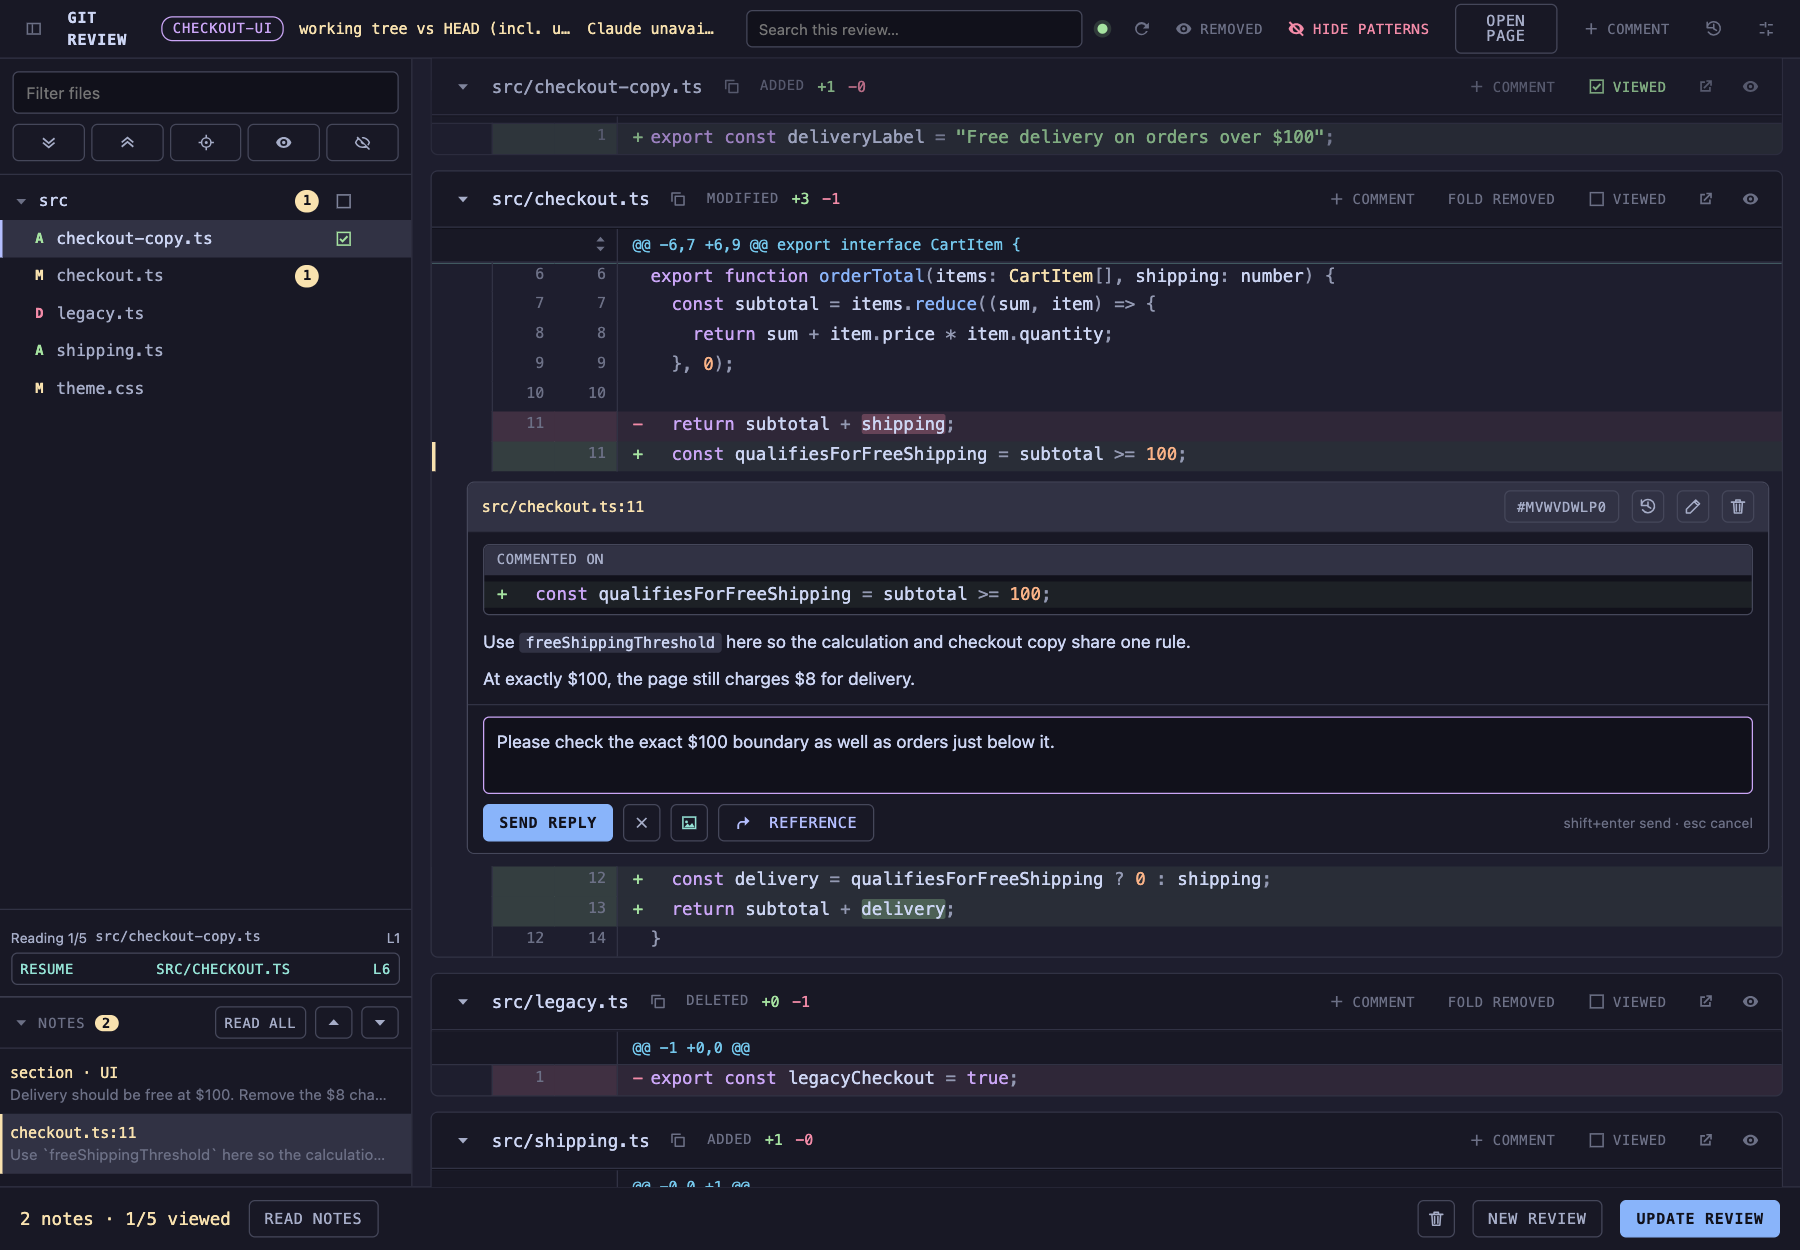
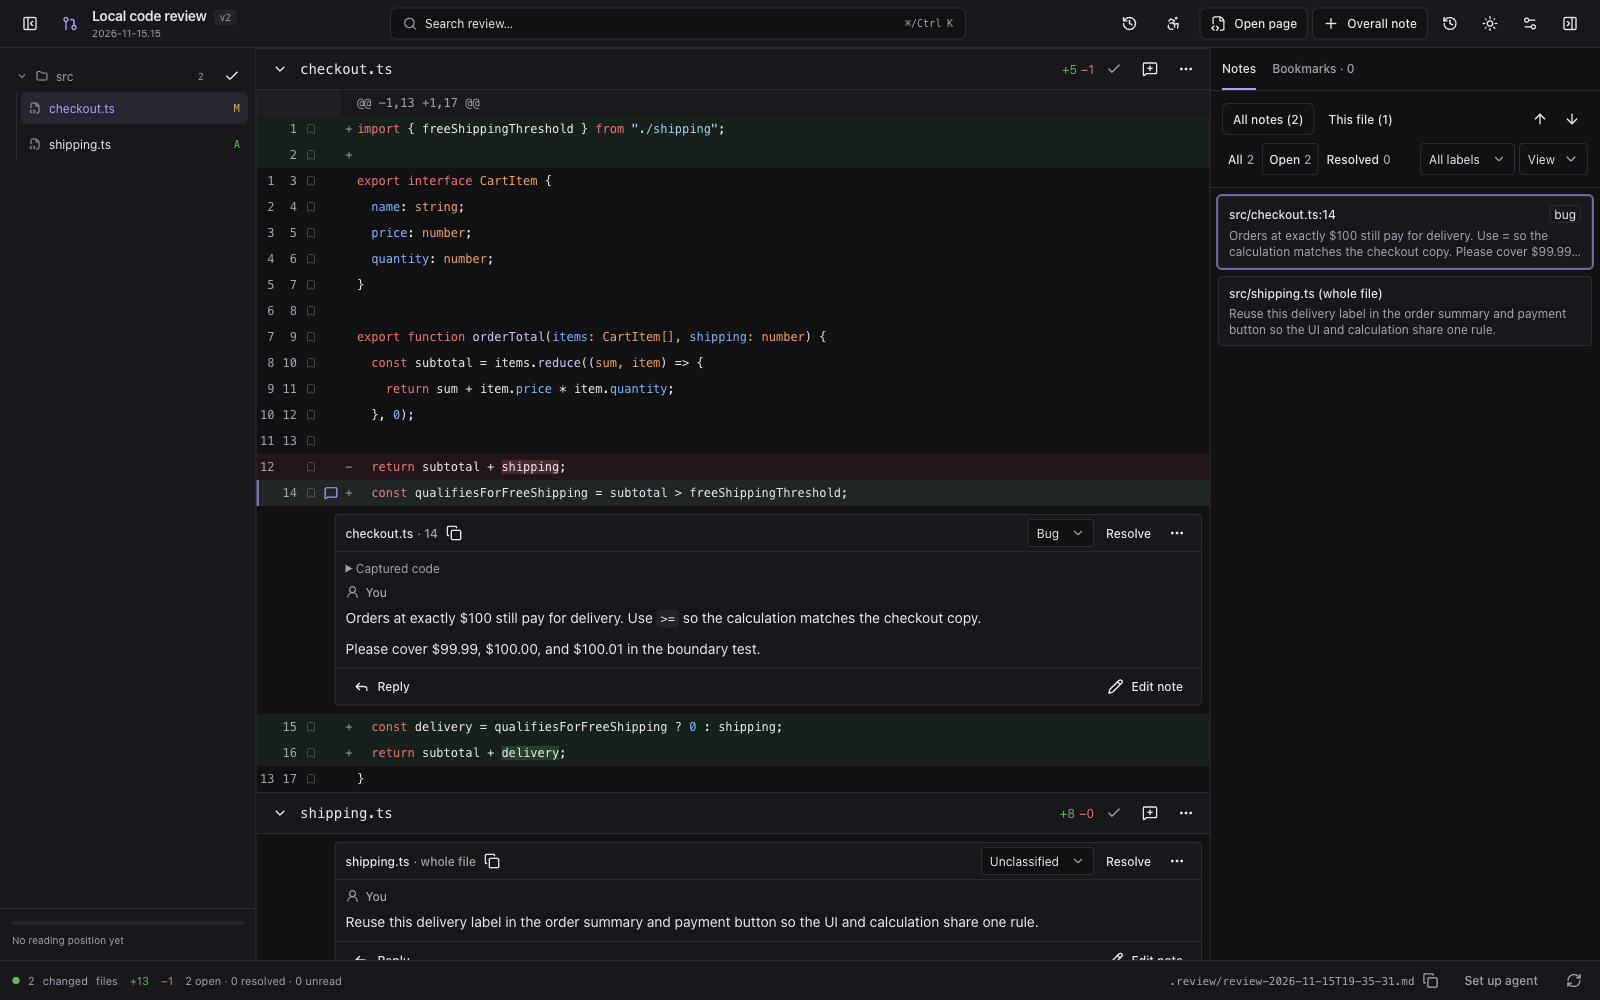
docs: refresh v2 screenshots and theme guides
- Embed current review, built-in theme, custom palette editor, and web capture screenshots.
- Document persisted theme selection and screenshot refresh workflow.

diff --git a/README.md b/README.md
@@ -2,13 +2,17 @@
 
 Review local Git changes and annotate a running web app. Feedback stays in Markdown, ready for any coding agent.
 
-This `v2` branch uses React, Tailwind, Base UI, TanStack Query/Virtual, and
-Konva/react-konva while keeping the terminal CLI and standalone executable.
-Library-backed features include pressure drawing, screenshot differences, modern
-CSS colors, accessibility checks, and the official ACP SDK. Review rounds, note
-triage, search facets, and repository-wide history support follow-up work.
-See [development](docs/development.md) for the architecture and current scope.
-The screenshots and older releases on the default branch show the previous UI.
+[![Current review UI in the Dark theme, with a continuous diff, inline feedback, and the notes sidebar](docs/local-code-review.png)](docs/local-code-review.png)
+
+- Read continuous diffs with syntax highlighting, bookmarks, and resizable file and note panes.
+- Save Markdown notes, suggested changes, images, and replies without leaving the code.
+- Capture a running local app, draw on screenshots, and keep visual feedback in the same review.
+- Choose Light, Dark, Catppuccin Latte, or Catppuccin Mocha—or create your own palette.
+- Continue with any coding agent through review files, or connect one through ACP.
+
+The screenshots show this `v2` branch's React UI. Older releases may still show the
+previous interface; [build from source](#install-or-update-from-source) to use this
+branch. See [development](docs/development.md) for the library stack and architecture.
 
 ## Install
 
@@ -92,6 +96,24 @@ The browser opens at `http://localhost:7777`; if the port is taken, lcr prints t
 2. **Save note** writes that note to `.review/review-<timestamp>.md` without starting an agent. The output directory is ignored by Git.
 3. Ask your agent to address that file. Replies and status changes appear live; keep the conversation going under each note.
 
+## Themes
+
+Choose **Settings → Appearance → Theme**. The four built-in palettes cover light
+and dark reading, including diff colors and syntax highlighting.
+
+| Catppuccin Latte                                                                                           | Catppuccin Mocha                                                                                          |
+| ---------------------------------------------------------------------------------------------------------- | --------------------------------------------------------------------------------------------------------- |
+| [![Code review in the Catppuccin Latte light theme](docs/catppuccin-latte.png)](docs/catppuccin-latte.png) | [![Code review in the Catppuccin Mocha dark theme](docs/catppuccin-mocha.png)](docs/catppuccin-mocha.png) |
+
+Prefer the defaults? Preview [Light](docs/review-light.png) or
+[Dark](docs/local-code-review.png). The header shortcut switches between light and
+dark, keeping the Catppuccin pair when selected.
+
+**Create theme** opens a separate editor with 31 editable colors and a live
+preview. Save a named copy to your user configuration without changing the built-in
+palette or losing your review draft. Your selection persists across restarts.
+See the [theme gallery and editor guide](docs/usage.md#themes-and-custom-colors).
+
 ## Annotate a web app
 
 ```sh
@@ -102,6 +124,8 @@ Select an element or area in the running app and write feedback in the embedded
 React editor. Captures and code notes share one Markdown conversation. Requires
 installed Chrome, Chromium, or Edge. See the [web capture guide](docs/web-ui.md)
 for profiles, existing-browser attachment, and capture context.
+
+[![Live-page capture with the current floating note editor and a checkout screenshot attached](docs/web-annotation.png)](docs/web-annotation.png)
 
 ## Hand feedback to an agent
 
@@ -258,14 +282,15 @@ Use `~/.config/lcr/config.json`, or `$XDG_CONFIG_HOME/lcr/config.json` when
   "context": 8,
   "browserProfile": "shared",
   "ui": {
+    "theme": "catppuccin-mocha",
     "aiContext": true
   }
 }
 ```
 
 With this example, plain `lcr` reviews against `origin/main` without an automatic
-agent and enables on-demand capture context. The revision must exist in the
-repository; lcr does not fetch it.
+agent, uses Catppuccin Mocha, and enables on-demand capture context. The revision
+must exist in the repository; lcr does not fetch it.
 
 CLI options override configured defaults. Explicit Git arguments replace `diffArgs`;
 `lcr --worktree` returns to the built-in comparison against `HEAD`. `--no-web` disables
@@ -280,7 +305,9 @@ Both accept `~/` paths. These browser settings apply when `--web` or a configure
 Settings changes persist in `lcr/config.json` under that configuration directory,
 preserving startup options and agent profile paths. **Enable AI answers** turns
 new AI dispatches on or off without cancelling existing queued/running work.
-Theme, panel visibility, viewed marks, and drafts remain browser-local.
+Theme selection also persists as `ui.theme`; panel visibility, viewed marks, and
+drafts remain browser-local. Custom palettes live in the adjacent `lcr/themes/`
+directory.
 
 ## Other options
 
@@ -299,6 +326,7 @@ Unrecognized arguments pass through to `git diff`. Working-tree comparisons incl
 ## Documentation
 
 - [Review workflow and controls](docs/usage.md) — notes, images, history, and saved conversations.
+- [Themes and custom colors](docs/usage.md#themes-and-custom-colors) — built-in previews, the live editor, and saved palettes.
 - [Web annotation](docs/web-ui.md) — page selections, captured evidence, and browser requirements.
 - [Agent connections and sequential queue](docs/agent-connections.md).
 - [Development](docs/development.md) — run from source, checks, and standalone builds.

diff --git a/docs/usage.md b/docs/usage.md
@@ -181,6 +181,15 @@ is stored as `ui.theme` in your user config and survives restarts. Open pages on
 the same lcr server update together. The header's light/dark shortcut switches
 between Latte and Mocha when using Catppuccin, or between Light and Dark otherwise.
 
+| Light (`light`)                                                                         | Dark (`dark`)                                                                        |
+| --------------------------------------------------------------------------------------- | ------------------------------------------------------------------------------------ |
+| [![The example checkout review in the Light theme](review-light.png)](review-light.png) | [![The same review in the Dark theme](local-code-review.png)](local-code-review.png) |
+| **Catppuccin Latte (`catppuccin-latte`)**                                               | **Catppuccin Mocha (`catppuccin-mocha`)**                                            |
+| [![The same review in Catppuccin Latte](catppuccin-latte.png)](catppuccin-latte.png)    | [![The same review in Catppuccin Mocha](catppuccin-mocha.png)](catppuccin-mocha.png) |
+
+These screenshots use the same example checkout and note positions so you can
+compare the palettes. Click an image for its full-size view.
+
 Choose **Create theme** beside the selector to open a separate editor page with
 the selected palette prefilled, leaving your review and note drafts in place.
 Give the copy a name, choose its light/dark color scheme, and edit any of the 31
@@ -188,6 +197,8 @@ colors using a picker or a six-digit hex value. Each field explains its use:
 surfaces, text, controls, status indicators, diff lines, and syntax highlighting.
 The live preview stays separate from the active theme until you save. Light/dark
 sets the browser color scheme; changing it does not replace your chosen colors.
+
+[![Custom theme editor with named color fields, light and dark scheme selection, and a live diff preview](theme-editor.png)](theme-editor.png)
 
 **Save as new theme** creates a JSON file under
 `$XDG_CONFIG_HOME/lcr/themes/`, or `~/.config/lcr/themes/`, and selects it. The editor

diff --git a/docs/development.md b/docs/development.md
@@ -155,6 +155,26 @@ Do not format generated review files. The optional skill copies must stay identi
 cmp skills/apply-lcr/SKILL.md .agents/skills/apply-lcr/SKILL.md
 ```
 
+## Documentation screenshots
+
+README and guide images are real captures of the current UI, using a disposable
+example checkout rather than personal code or agent conversations:
+
+- `docs/local-code-review.png`: Dark theme and the main review layout.
+- `docs/review-light.png`, `docs/catppuccin-latte.png`, and
+  `docs/catppuccin-mocha.png`: the same review and scroll position in each palette.
+- `docs/theme-editor.png`: **Settings → Appearance → Create theme**, with its live preview.
+- `docs/web-annotation.png`: the live-page capture overlay and embedded note editor.
+
+To refresh them, compile the standalone executable as above, run it in an isolated
+example Git repository with `--no-agent`, and use a temporary `XDG_CONFIG_HOME`
+so theme changes do not overwrite your preferences. Keep the review viewport at
+1600 × 1000 CSS pixels and capture the actual page, not a reconstructed UI.
+Use a local example app for `--web` captures; inspect images for private content
+before replacing the assets. Do not commit the temporary repository, browser
+profile, generated reviews, or executable. Embed images with relative paths and
+descriptive alt text so the README and guides work offline as well as on GitHub.
+
 ## UX preservation
 
 The React implementation keeps the original review interactions. See the

diff --git a/docs/web-ui.md b/docs/web-ui.md
@@ -15,6 +15,13 @@ server. Write feedback, annotate images or add a suggestion, and save. Captured 
 and element metadata remain in the review file, with pictures stored beside it.
 The external-link icon in the window header opens the full review.
 
+[![Current live-page overlay with a selected order summary and its screenshot in the floating Markdown note editor](web-annotation.png)](web-annotation.png)
+
+The example storefront above uses Catppuccin Mocha for lcr's controls. Change it
+under **Settings → Appearance → Theme** in the full review; the embedded editor
+follows the same palette without recoloring the page or captured image. See
+[themes and custom colors](usage.md#themes-and-custom-colors).
+
 The note window can be moved, resized from any side or its corner, or minimized.
 Capture titles stay on one line with ellipsis; their full titles are available
 on hover. Clicking an editable thumbnail opens the drawing editor directly;
